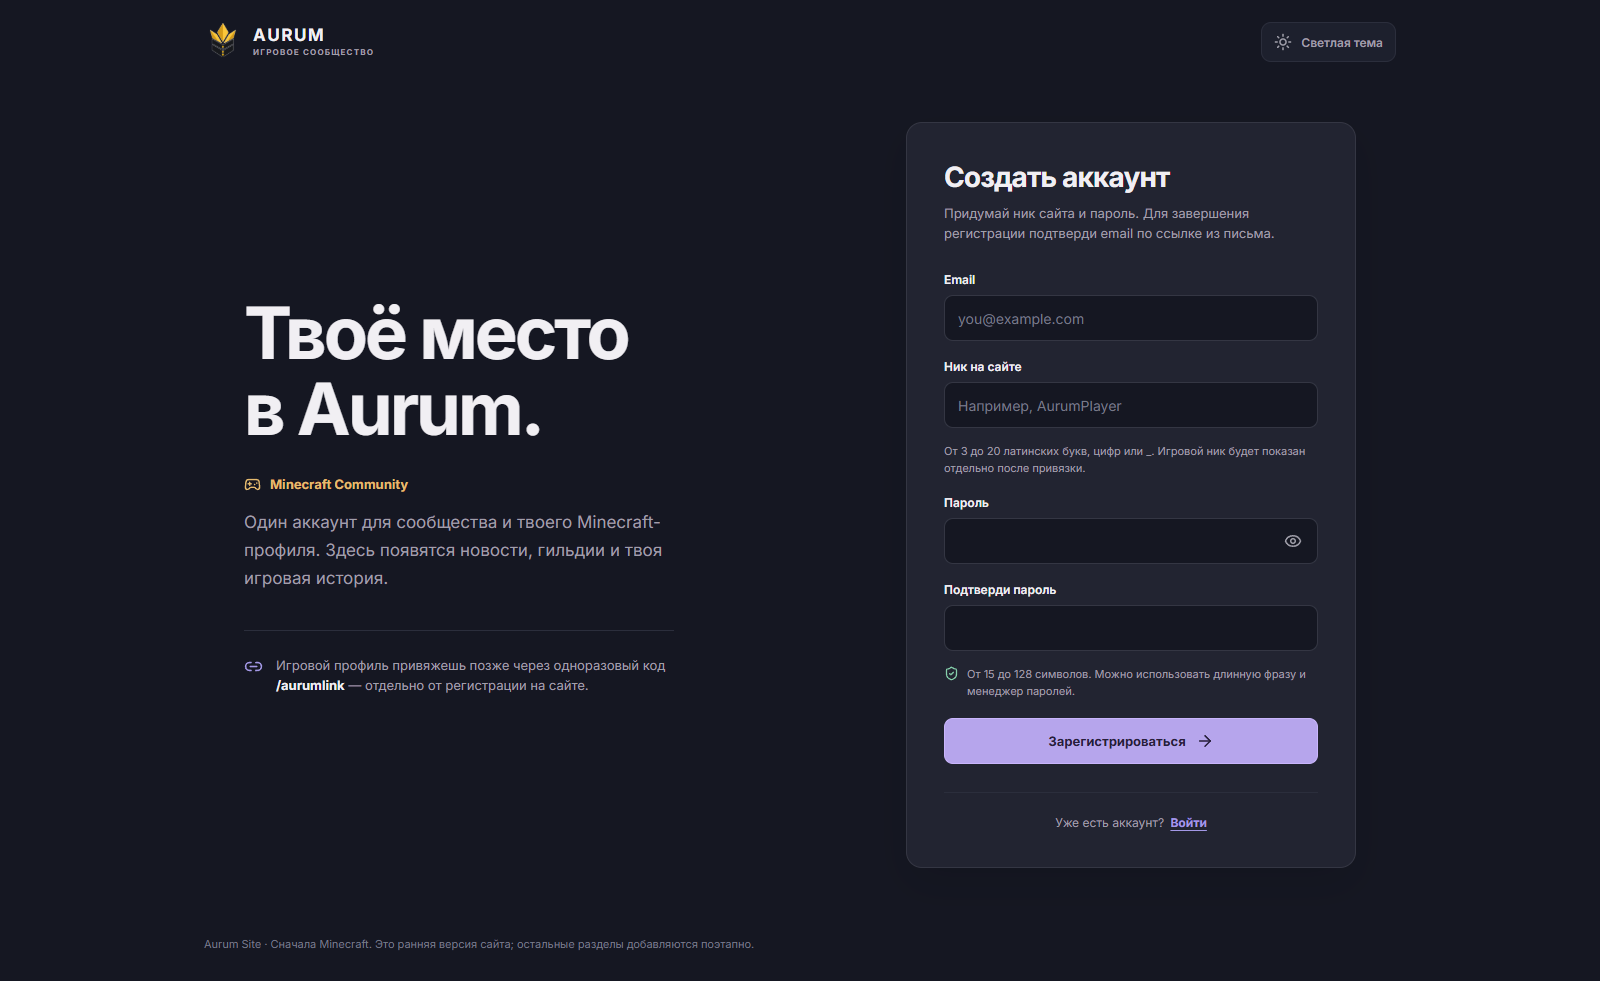
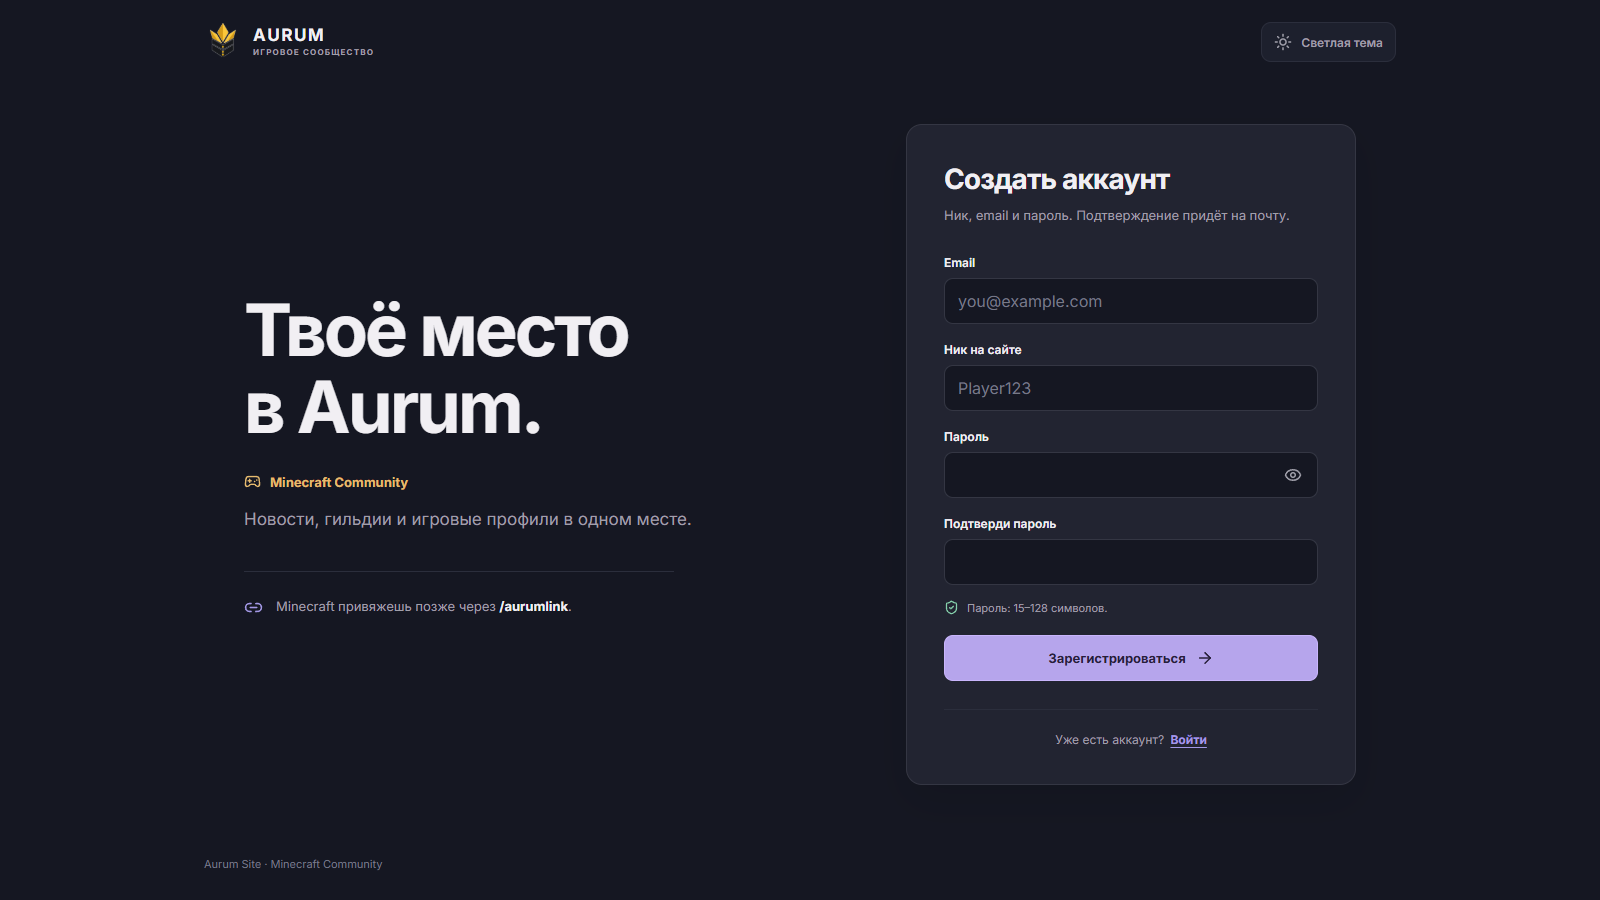
refine: shorten site auth and settings copy

diff --git a/apps/web/src/AuthPage.tsx b/apps/web/src/AuthPage.tsx
@@ -1,4 +1,4 @@
-import { useEffect, useState, type FormEvent } from 'react';
+import { useEffect, useRef, useState, type FormEvent } from 'react';
 import { ArrowRight, Eye, EyeOff, Gamepad2, Link2, Moon, ShieldCheck, Sun } from 'lucide-react';
 import { authClient } from './auth-client';
 
@@ -19,7 +19,7 @@ function errorMessage(error: { code?: string; status?: number } | null | undefin
   if (error.status === 429) return 'Слишком много попыток. Подожди немного и попробуй снова.';
   if (error.code === 'EMAIL_NOT_VERIFIED') return 'Подтверди email по ссылке из письма, затем войди.';
   if (error.code === 'INVALID_EMAIL_OR_PASSWORD') return 'Неверный email или пароль.';
-  if (error.code?.includes('USERNAME')) return 'Ник занят или не подходит. Попробуй другой.';
+  if (error.code?.includes('USERNAME')) return 'Ник занят или недопустим.';
   return 'Сервис авторизации сейчас недоступен или запрос не удался. Попробуй позже.';
 }
 
@@ -32,6 +32,7 @@ export function AuthPage({ lightTheme, toggleTheme }: { lightTheme: boolean; tog
   const [showPassword, setShowPassword] = useState(false);
   const [busy, setBusy] = useState(false);
   const [error, setError] = useState('');
+  const errorRef = useRef<HTMLParagraphElement>(null);
   const [notice, setNotice] = useState('');
   const [siteConfig, setSiteConfig] = useState<SiteConfig | null>(null);
   const [configError, setConfigError] = useState(false);
@@ -54,16 +55,14 @@ export function AuthPage({ lightTheme, toggleTheme }: { lightTheme: boolean; tog
     return () => window.removeEventListener('popstate', onPopState);
   }, []);
 
+  useEffect(() => { if (error) errorRef.current?.focus(); }, [error]);
+
   const navigate = (next: Mode) => {
     const path = { login: '/login', register: '/register', verify: '/verify-email', forgot: '/forgot-password', reset: '/reset-password' }[next];
     window.history.pushState(null, '', path);
     setMode(next);
     setError('');
     setNotice('');
-    if (mode === 'register' && !/^[A-Za-z0-9_]{3,20}$/.test(nickname)) {
-      setError('Ник: от 3 до 20 латинских букв, цифр или символов _.');
-      return;
-    }
     setPassword('');
     setConfirmation('');
   };
@@ -72,12 +71,24 @@ export function AuthPage({ lightTheme, toggleTheme }: { lightTheme: boolean; tog
     event.preventDefault();
     setError('');
     setNotice('');
+    if (mode !== 'reset' && !/^[^\s@]+@[^\s@]+\.[^\s@]+$/.test(email)) {
+      setError('Проверь email.');
+      return;
+    }
+    if (mode === 'register' && !/^[A-Za-z0-9_]{3,20}$/.test(nickname)) {
+      setError('Ник: 3–20 символов (A–Z, 0–9, _).');
+      return;
+    }
     if ((mode === 'register' || mode === 'reset') && password !== confirmation) {
       setError('Пароли не совпадают. Проверь оба поля.');
       return;
     }
     if ((mode === 'register' || mode === 'reset') && (password.length < 15 || password.length > 128)) {
-      setError('Пароль должен содержать от 15 до 128 символов.');
+      setError('Пароль: 15–128 символов.');
+      return;
+    }
+    if (mode === 'login' && !password) {
+      setError('Введи пароль.');
       return;
     }
 
@@ -120,17 +131,17 @@ export function AuthPage({ lightTheme, toggleTheme }: { lightTheme: boolean; tog
 
   const title = { login: 'С возвращением', register: 'Создать аккаунт', verify: 'Проверь почту', forgot: 'Восстановить доступ', reset: 'Новый пароль' }[mode];
   const description = {
-    login: 'Войди, чтобы открыть свой профиль и пространство Minecraft.',
-    register: 'Придумай ник сайта и пароль. Для завершения регистрации подтверди email по ссылке из письма.',
-    verify: 'Мы отправили ссылку для подтверждения email. После перехода по ней ты сможешь войти.',
-    forgot: 'Введи email аккаунта — мы отправим ссылку для смены пароля.',
-    reset: 'Придумай новый пароль для аккаунта Aurum.',
+    login: 'Войди в Aurum.',
+    register: 'Ник, email и пароль. Подтверждение придёт на почту.',
+    verify: 'Ссылка отправлена на email.',
+    forgot: 'Пришлём ссылку для смены пароля.',
+    reset: 'Придумай новый пароль.',
   }[mode];
   const verified = mode === 'login' && new URLSearchParams(window.location.search).has('verified');
   const unavailable = mode === 'register' && !siteConfig?.registrationEnabled
-    ? 'Регистрация откроется после настройки почты. Пока можно войти в уже созданный аккаунт.'
+    ? 'Регистрация пока закрыта.'
     : (mode === 'verify' || mode === 'forgot') && !siteConfig?.emailEnabled
-      ? 'Отправка писем пока не настроена. Этот раздел откроется вместе с регистрацией.'
+      ? 'Почта пока не настроена.'
       : '';
 
   return <div className="auth-page">
@@ -142,8 +153,8 @@ export function AuthPage({ lightTheme, toggleTheme }: { lightTheme: boolean; tog
       <section className="auth-intro" aria-label="О проекте Aurum">
         <h1>Твоё место<br />в Aurum.</h1>
         <span className="auth-game"><Gamepad2 size={17} /> Minecraft Community</span>
-        <p>Один аккаунт для сообщества и твоего Minecraft-профиля. Здесь появятся новости, гильдии и твоя игровая история.</p>
-        <div className="auth-next"><Link2 size={19} /><span>Игровой профиль привяжешь позже через одноразовый код <strong>/aurumlink</strong> — отдельно от регистрации на сайте.</span></div>
+        <p>Новости, гильдии и игровые профили в одном месте.</p>
+        <div className="auth-next"><Link2 size={19} /><span>Minecraft привяжешь позже через <strong>/aurumlink</strong>.</span></div>
       </section>
 
       <section className="auth-panel" aria-labelledby="auth-title">
@@ -151,15 +162,15 @@ export function AuthPage({ lightTheme, toggleTheme }: { lightTheme: boolean; tog
         <p className="auth-description">{description}</p>
         {verified && <p className="auth-notice" role="status">После подтверждения email войди в аккаунт.</p>}
         {notice && <p className="auth-notice" role="status">{notice}</p>}
-        {error && <p className="auth-error" role="alert">{error}</p>}
+        {error && <p className="auth-error" role="alert" tabIndex={-1} ref={errorRef}>{error}</p>}
         {configError && mode === 'login' && <p className="auth-error" role="alert">Сервис входа сейчас недоступен. Попробуй позже.</p>}
         {unavailable && <p className="auth-unavailable" role="status">{configError ? 'Не удалось связаться с сервисом. Попробуй позже.' : siteConfig ? unavailable : 'Проверяем доступность сервиса…'}</p>}
 
-        {!unavailable && <form onSubmit={submit}>
+        {!unavailable && <form onSubmit={submit} noValidate>
           {mode !== 'reset' && <label className="auth-field">Email<input type="email" name="email" value={email} onChange={(event) => setEmail(event.target.value)} autoComplete="email" placeholder="you@example.com" maxLength={254} required disabled={busy} /></label>}
-          {mode === 'register' && <><label className="auth-field">Ник на сайте<input type="text" name="nickname" value={nickname} onChange={(event) => setNickname(event.target.value)} autoComplete="nickname" placeholder="Например, AurumPlayer" minLength={3} maxLength={20} required disabled={busy} /></label><p className="auth-hint">От 3 до 20 латинских букв, цифр или _. Игровой ник будет показан отдельно после привязки.</p></>}
-          {(mode === 'login' || mode === 'register' || mode === 'reset') && <label className="auth-field">{mode === 'reset' ? 'Новый пароль' : 'Пароль'}<span className="auth-password"><input type={showPassword ? 'text' : 'password'} name="password" value={password} onChange={(event) => setPassword(event.target.value)} autoComplete={mode === 'login' ? 'current-password' : 'new-password'} minLength={mode === 'login' ? undefined : 15} maxLength={128} required disabled={busy} /><button type="button" onClick={() => setShowPassword(!showPassword)} aria-label={showPassword ? 'Скрыть пароль' : 'Показать пароль'}>{showPassword ? <EyeOff size={18} /> : <Eye size={18} />}</button></span></label>}
-          {(mode === 'register' || mode === 'reset') && <><label className="auth-field">Подтверди пароль<input type={showPassword ? 'text' : 'password'} name="confirmation" value={confirmation} onChange={(event) => setConfirmation(event.target.value)} autoComplete="new-password" required disabled={busy} /></label><p className="auth-hint"><ShieldCheck size={15} /> От 15 до 128 символов. Можно использовать длинную фразу и менеджер паролей.</p></>}
+          {mode === 'register' && <label className="auth-field">Ник на сайте<input type="text" name="nickname" value={nickname} onChange={(event) => { setNickname(event.target.value); setError(''); }} autoComplete="nickname" placeholder="Player123" maxLength={20} required disabled={busy} /></label>}
+          {(mode === 'login' || mode === 'register' || mode === 'reset') && <label className="auth-field">{mode === 'reset' ? 'Новый пароль' : 'Пароль'}<span className="auth-password"><input type={showPassword ? 'text' : 'password'} name="password" value={password} onChange={(event) => setPassword(event.target.value)} autoComplete={mode === 'login' ? 'current-password' : 'new-password'} maxLength={128} required disabled={busy} /><button type="button" onClick={() => setShowPassword(!showPassword)} aria-label={showPassword ? 'Скрыть пароль' : 'Показать пароль'}>{showPassword ? <EyeOff size={18} /> : <Eye size={18} />}</button></span></label>}
+          {(mode === 'register' || mode === 'reset') && <><label className="auth-field">Подтверди пароль<input type={showPassword ? 'text' : 'password'} name="confirmation" value={confirmation} onChange={(event) => setConfirmation(event.target.value)} autoComplete="new-password" required disabled={busy} /></label><p className="auth-hint"><ShieldCheck size={15} /> Пароль: 15–128 символов.</p></>}
           {mode === 'login' && (siteConfig?.emailEnabled ? <button type="button" className="auth-inline-link auth-forgot" onClick={() => navigate('forgot')}>Забыл пароль?</button> : <span className="auth-forgot auth-muted">Восстановление по почте пока недоступно</span>)}
           <button type="submit" className="auth-submit" disabled={busy}>{busy ? 'Подождите…' : mode === 'login' ? 'Войти' : mode === 'register' ? 'Зарегистрироваться' : mode === 'verify' ? 'Отправить письмо ещё раз' : mode === 'forgot' ? 'Отправить ссылку' : 'Сменить пароль'}{!busy && <ArrowRight size={18} />}</button>
         </form>}
@@ -169,6 +180,6 @@ export function AuthPage({ lightTheme, toggleTheme }: { lightTheme: boolean; tog
         </div>
       </section>
     </main>
-    <footer className="auth-footer">Aurum Site · Сначала Minecraft. Это ранняя версия сайта; остальные разделы добавляются поэтапно.</footer>
+    <footer className="auth-footer">Aurum Site · Minecraft Community</footer>
   </div>;
 }

diff --git a/apps/web/src/App.tsx b/apps/web/src/App.tsx
@@ -6,9 +6,7 @@ import {
   ArrowRight,
   BookOpen,
   Compass,
-  ExternalLink,
   Gamepad2,
-  HeartHandshake,
   Home,
   Link2,
   LogOut,
@@ -162,7 +160,7 @@ function MinecraftPage({ go }: { go: (page: Page) => void }) {
 }
 
 function ProfilePage({ go, name, email }: { go: (page: Page) => void; name: string; email?: string }) {
-  return <div className="profile-page"><h1>Моя страница</h1><p>Учётная запись Aurum и твой будущий Minecraft-профиль.</p><div className="profile-head"><span className="avatar profile-avatar">{name.charAt(0).toUpperCase()}</span><div><h2>{name}</h2><span>{email ? `Твой email: ${email} · виден только тебе` : 'Демонстрационный профиль'}</span></div></div><section className="settings-card"><div><h2>Игровые профили</h2><p>Minecraft пока не привязан. Подтверди профиль в игре, чтобы здесь появились твои данные.</p></div><button className="button button-primary" onClick={() => go('link')}>Привязать Minecraft <ArrowRight size={16} /></button></section></div>;
+  return <div className="profile-page"><h1>Моя страница</h1><div className="profile-head"><span className="avatar profile-avatar">{name.charAt(0).toUpperCase()}</span><div><h2>{name}</h2><span>{email ? `Email: ${email} · виден только тебе` : 'Демонстрационный профиль'}</span></div></div><section className="settings-card"><div><h2>Игровые профили</h2><p>Minecraft пока не привязан.</p></div><button className="button button-primary" onClick={() => go('link')}>Привязать Minecraft <ArrowRight size={16} /></button></section></div>;
 }
 
 function LinkPage({ onBack }: { onBack: () => void }) {
@@ -194,7 +192,7 @@ function SettingsPage() {
     setError('');
     setNotice('');
     if (newPassword !== confirmation) return setError('Новые пароли не совпадают.');
-    if (newPassword.length < 15 || newPassword.length > 128) return setError('Новый пароль должен содержать от 15 до 128 символов.');
+    if (newPassword.length < 15 || newPassword.length > 128) return setError('Пароль: 15–128 символов.');
     if (newPassword === currentPassword) return setError('Новый пароль должен отличаться от текущего.');
     setBusy(true);
     try {
@@ -213,7 +211,20 @@ function SettingsPage() {
     }
   };
 
-  return <div className="settings-page"><h1>Настройки</h1><p>Тему можно переключить внизу левого меню. Здесь же можно сменить пароль аккаунта.</p><section className="settings-card settings-password"><h2>Смена пароля</h2><p>После первого входа замени временный пароль. Новый пароль — от 15 до 128 символов.</p><form onSubmit={changePassword}><label>Текущий пароль<input type="password" autoComplete="current-password" value={currentPassword} onChange={(event) => setCurrentPassword(event.target.value)} required disabled={busy} /></label><label>Новый пароль<input type="password" autoComplete="new-password" minLength={15} maxLength={128} value={newPassword} onChange={(event) => setNewPassword(event.target.value)} required disabled={busy} /></label><label>Повтори новый пароль<input type="password" autoComplete="new-password" value={confirmation} onChange={(event) => setConfirmation(event.target.value)} required disabled={busy} /></label><button className="button button-primary" type="submit" disabled={busy}>{busy ? 'Сохраняем…' : 'Сменить пароль'}</button></form>{error && <p className="auth-error" role="alert">{error}</p>}{notice && <p className="auth-notice" role="status">{notice}</p>}</section><div className="settings-card muted-setting"><div><h2>Двухфакторная защита</h2><p>Позже здесь можно будет по желанию включить подтверждение входа. Оно не будет обязательным для игроков.</p></div><ShieldCheck size={19} /></div><div className="settings-card muted-setting"><div><h2>Профиль и приватность</h2><p>Здесь можно будет управлять видимостью игровых данных и комментариями.</p></div><ExternalLink size={18} /></div><div className="settings-card muted-setting"><div><h2>Связанные игры</h2><p>Пока готовим привязку Minecraft через одноразовый код.</p></div><HeartHandshake size={19} /></div></div>;
+  return <div className="settings-page">
+    <h1>Настройки</h1>
+    <section className="settings-card settings-password">
+      <h2>Смена пароля</h2>
+      <form onSubmit={changePassword}>
+        <label>Текущий пароль<input type="password" autoComplete="current-password" value={currentPassword} onChange={(event) => { setCurrentPassword(event.target.value); setError(''); }} required disabled={busy} /></label>
+        <label>Новый пароль<input type="password" autoComplete="new-password" value={newPassword} onChange={(event) => { setNewPassword(event.target.value); setError(''); }} required disabled={busy} /></label>
+        <label>Повтори новый пароль<input type="password" autoComplete="new-password" value={confirmation} onChange={(event) => { setConfirmation(event.target.value); setError(''); }} required disabled={busy} /></label>
+        <button className="button button-primary" type="submit" disabled={busy}>{busy ? 'Сохраняем…' : 'Сменить пароль'}</button>
+      </form>
+      {error && <p className="auth-error" role="alert">{error}</p>}
+      {notice && <p className="auth-notice" role="status">{notice}</p>}
+    </section>
+  </div>;
 }
 
 export default App;

diff --git a/apps/web/src/styles.css b/apps/web/src/styles.css
@@ -247,8 +247,6 @@ code { color: var(--gold); font-family: inherit; font-weight: 600; }
 .settings-password input:focus { outline: 2px solid var(--violet); outline-offset: 2px; }
 .settings-password form .button { justify-self: start; margin-top: 4px; }
 .settings-password .auth-error, .settings-password .auth-notice { margin: 15px 0 0; }
-.muted-setting { opacity: .66; }
-.muted-setting svg { flex: 0 0 auto; }
 .nav-scrim { display: none; }
 
 .auth-page { min-height: 100vh; display: flex; flex-direction: column; }
